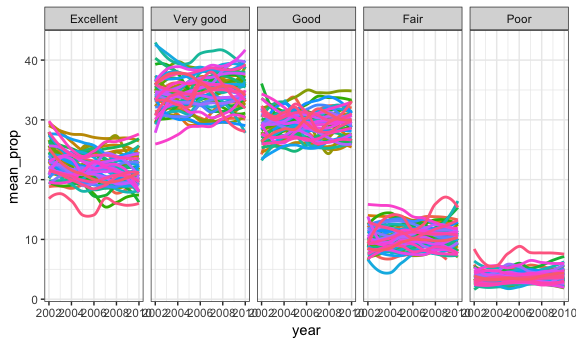
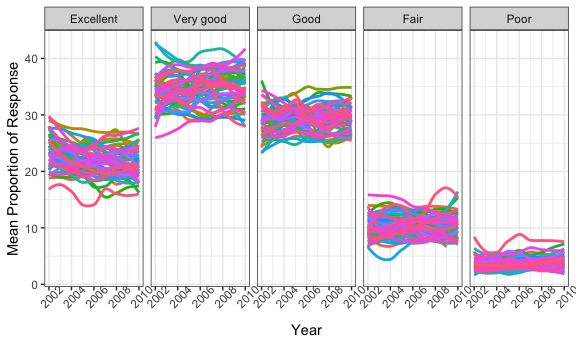
table of most popular items

diff --git a/p8103_hw3_dry2115.md b/p8103_hw3_dry2115.md
@@ -58,8 +58,6 @@ brfss_df %>%
     )
 ```
 
-    ## `geom_smooth()` using method = 'loess' and formula 'y ~ x'
-
 <img src="p8103_hw3_dry2115_files/figure-markdown_github/unnamed-chunk-3-1.png" width="90%" />
 
 Proportion of "Excellent" responses in NY locations in 2002, 2006, and 2010:
@@ -88,29 +86,61 @@ brfss_df %>%
   ggplot(aes(x = year, y = mean_prop, color = state)) +
   geom_smooth(se = FALSE) + 
   facet_grid(~response) +
-  theme(legend.position = "none")
+  theme(legend.position = "none") +
+  theme(axis.text.x = element_text(angle = 45)) +
+  labs(
+      x = "Year",
+      y = "Mean Proportion of Response"
+    )
 ```
-
-    ## `geom_smooth()` using method = 'loess' and formula 'y ~ x'
-
-    ## Warning: Removed 21 rows containing non-finite values (stat_smooth).
-
-    ## Warning in simpleLoess(y, x, w, span, degree = degree, parametric =
-    ## parametric, : pseudoinverse used at 2004
-
-    ## Warning in simpleLoess(y, x, w, span, degree = degree, parametric =
-    ## parametric, : neighborhood radius 2
-
-    ## Warning in simpleLoess(y, x, w, span, degree = degree, parametric =
-    ## parametric, : reciprocal condition number 0
-
-    ## Warning in simpleLoess(y, x, w, span, degree = degree, parametric =
-    ## parametric, : There are other near singularities as well. 4
 
 <img src="p8103_hw3_dry2115_files/figure-markdown_github/unnamed-chunk-5-1.png" width="90%" />
 
 Problem 2
 ---------
+
+``` r
+instacart_aisles = (instacart %>%
+  group_by(aisle) %>%
+  summarize(n_items = n()) %>%
+  arrange(desc(n_items)))
+```
+
+There are 134 distinct aisles.The top three aisles from which items are ordered are "fresh vegetables", "fresh fruits", and "packaged vegetables fruits".
+
+Plot of the number of items ordered in each aisle:
+
+``` r
+instacart %>%
+  group_by(department) %>%
+  
+ggplot(aes(x = aisle)) +
+  geom_bar() + 
+  coord_flip() 
+```
+
+<img src="p8103_hw3_dry2115_files/figure-markdown_github/unnamed-chunk-7-1.png" width="90%" />
+
+Table of most popular items in “baking ingredients”, “dog food care”, and “packaged vegetables fruits”.
+
+``` r
+instacart %>%
+  filter(aisle == c("baking ingredients", "dog food care", "packaged vegetables fruits")) %>% 
+  group_by(aisle, product_name) %>%
+  summarize(n_items = n()) %>%
+  summarize(n_max = max(n_items))
+```
+
+    ## # A tibble: 3 x 2
+    ##   aisle                      n_max
+    ##   <chr>                      <dbl>
+    ## 1 baking ingredients           157
+    ## 2 dog food care                 14
+    ## 3 packaged vegetables fruits  3324
+
+``` r
+### How to join with item name
+```
 
 Problem 3
 ---------
